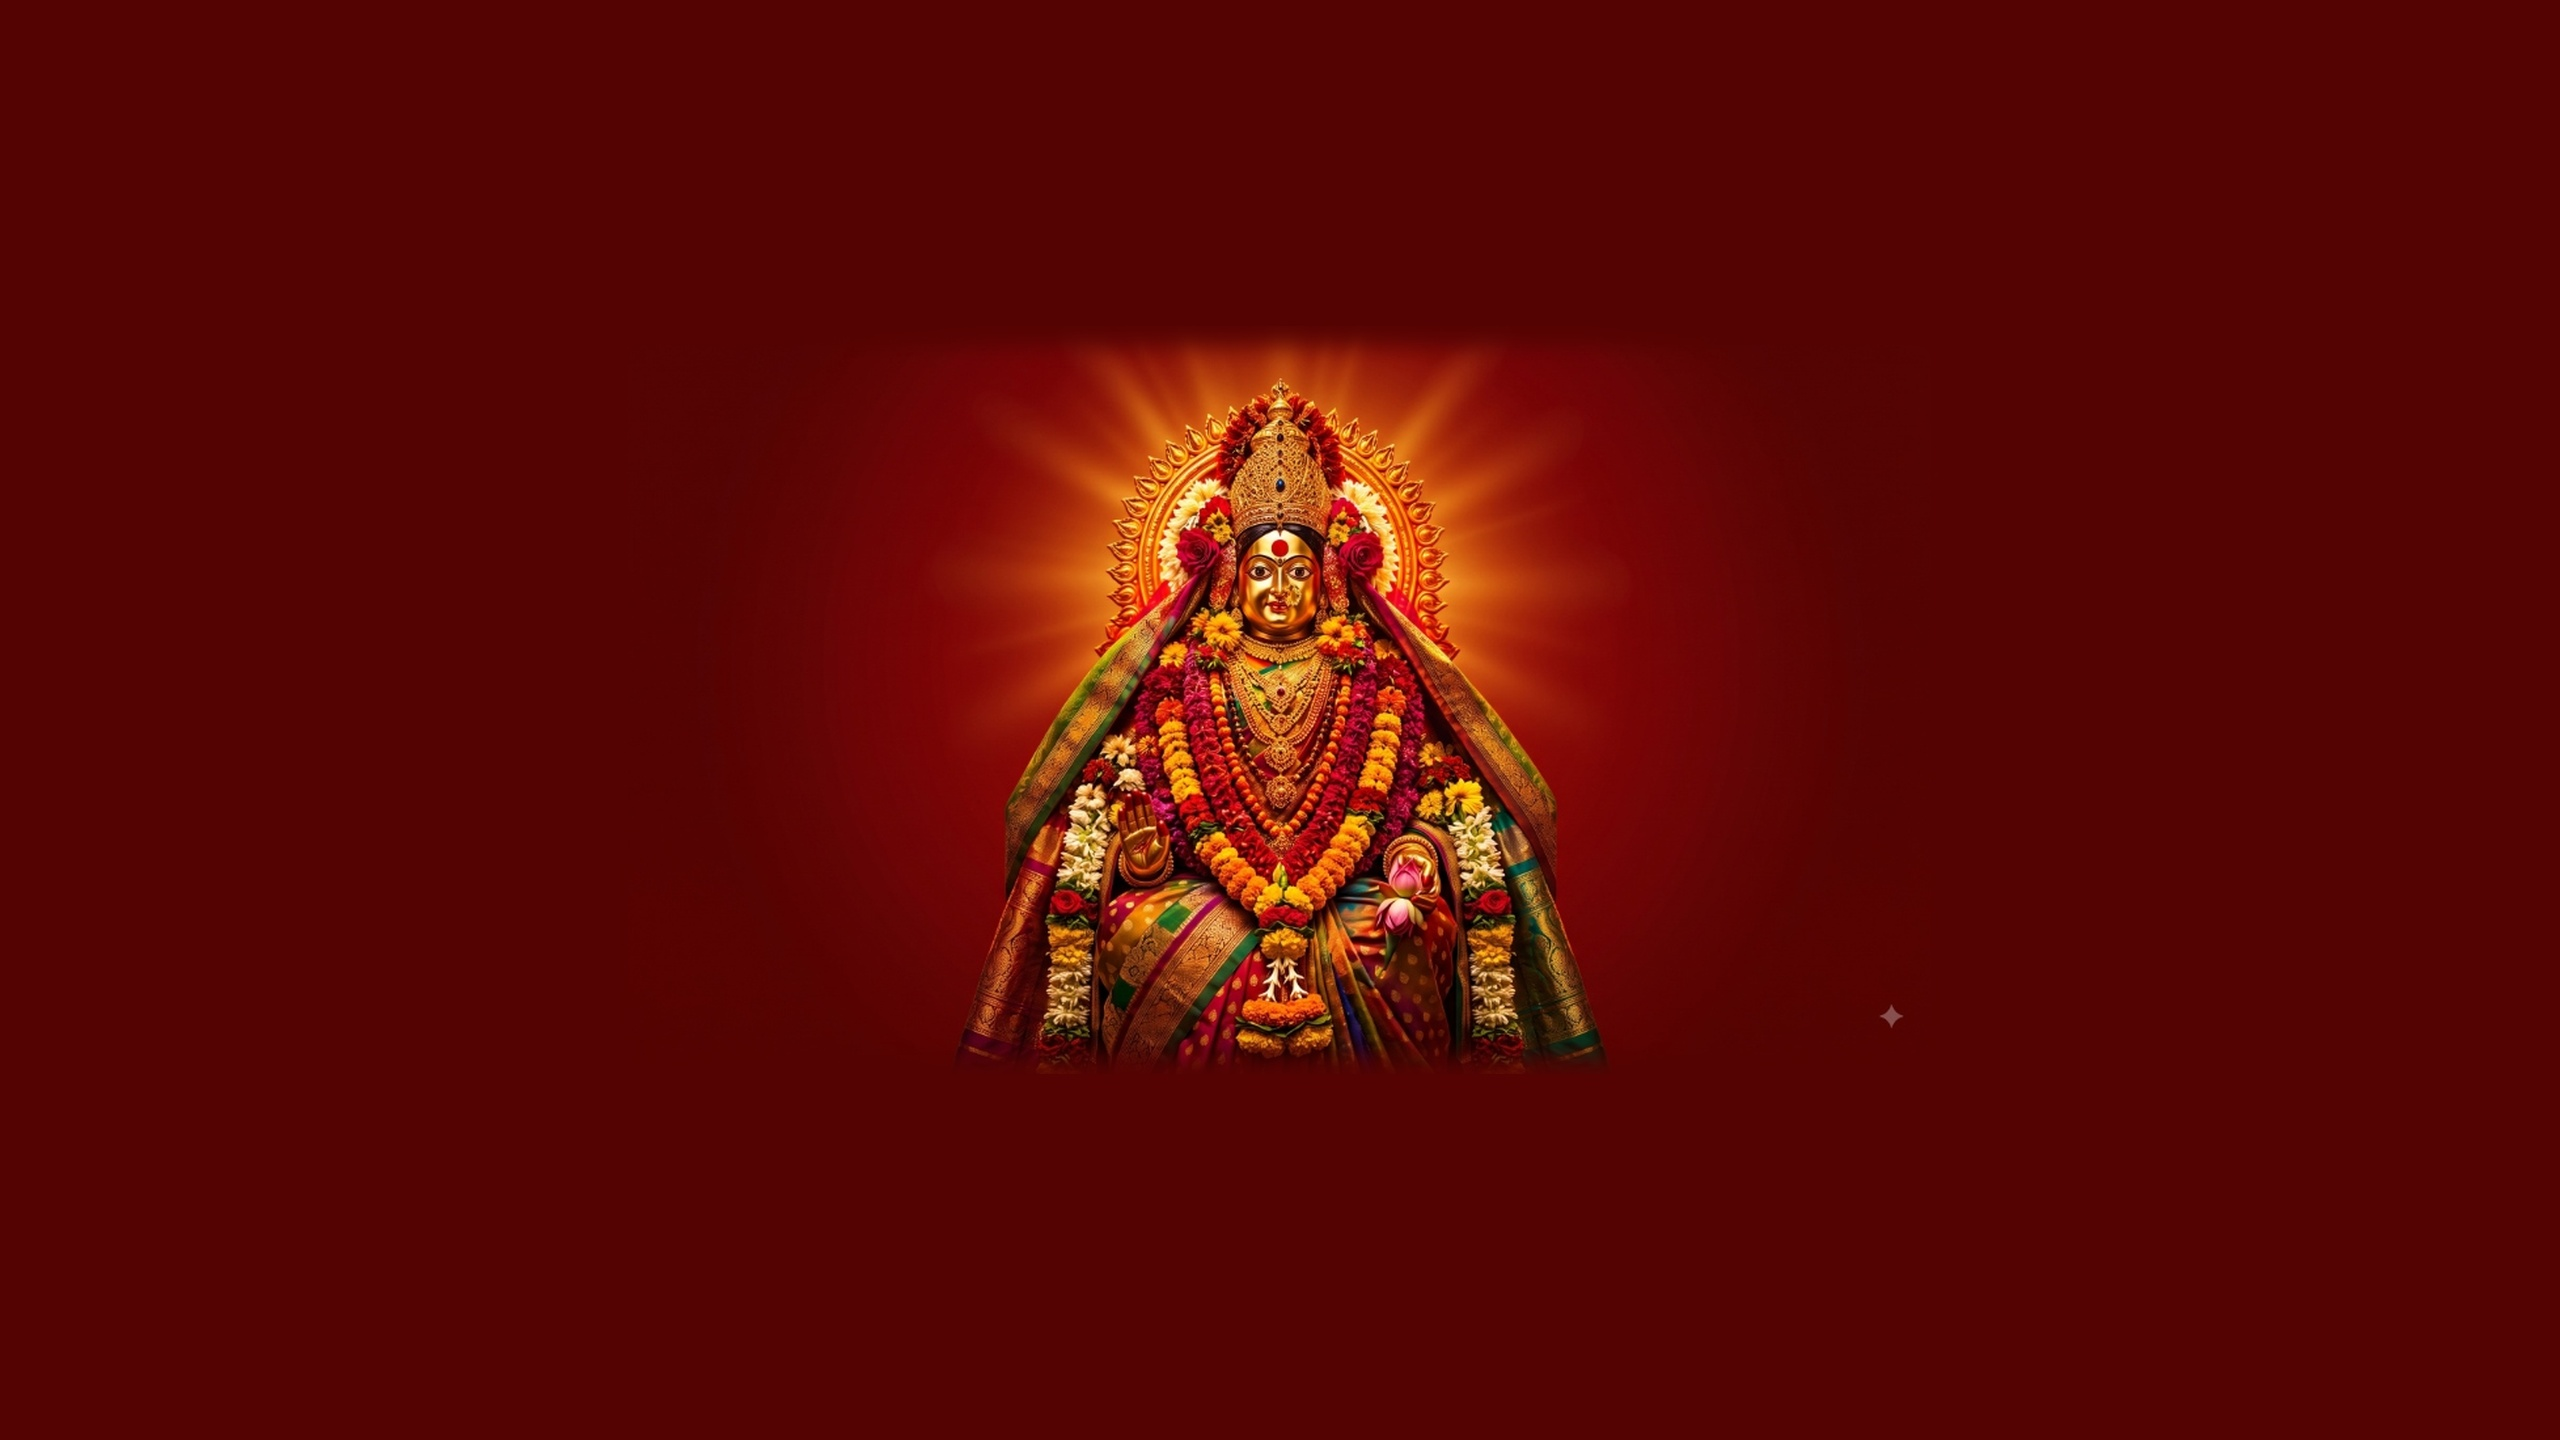
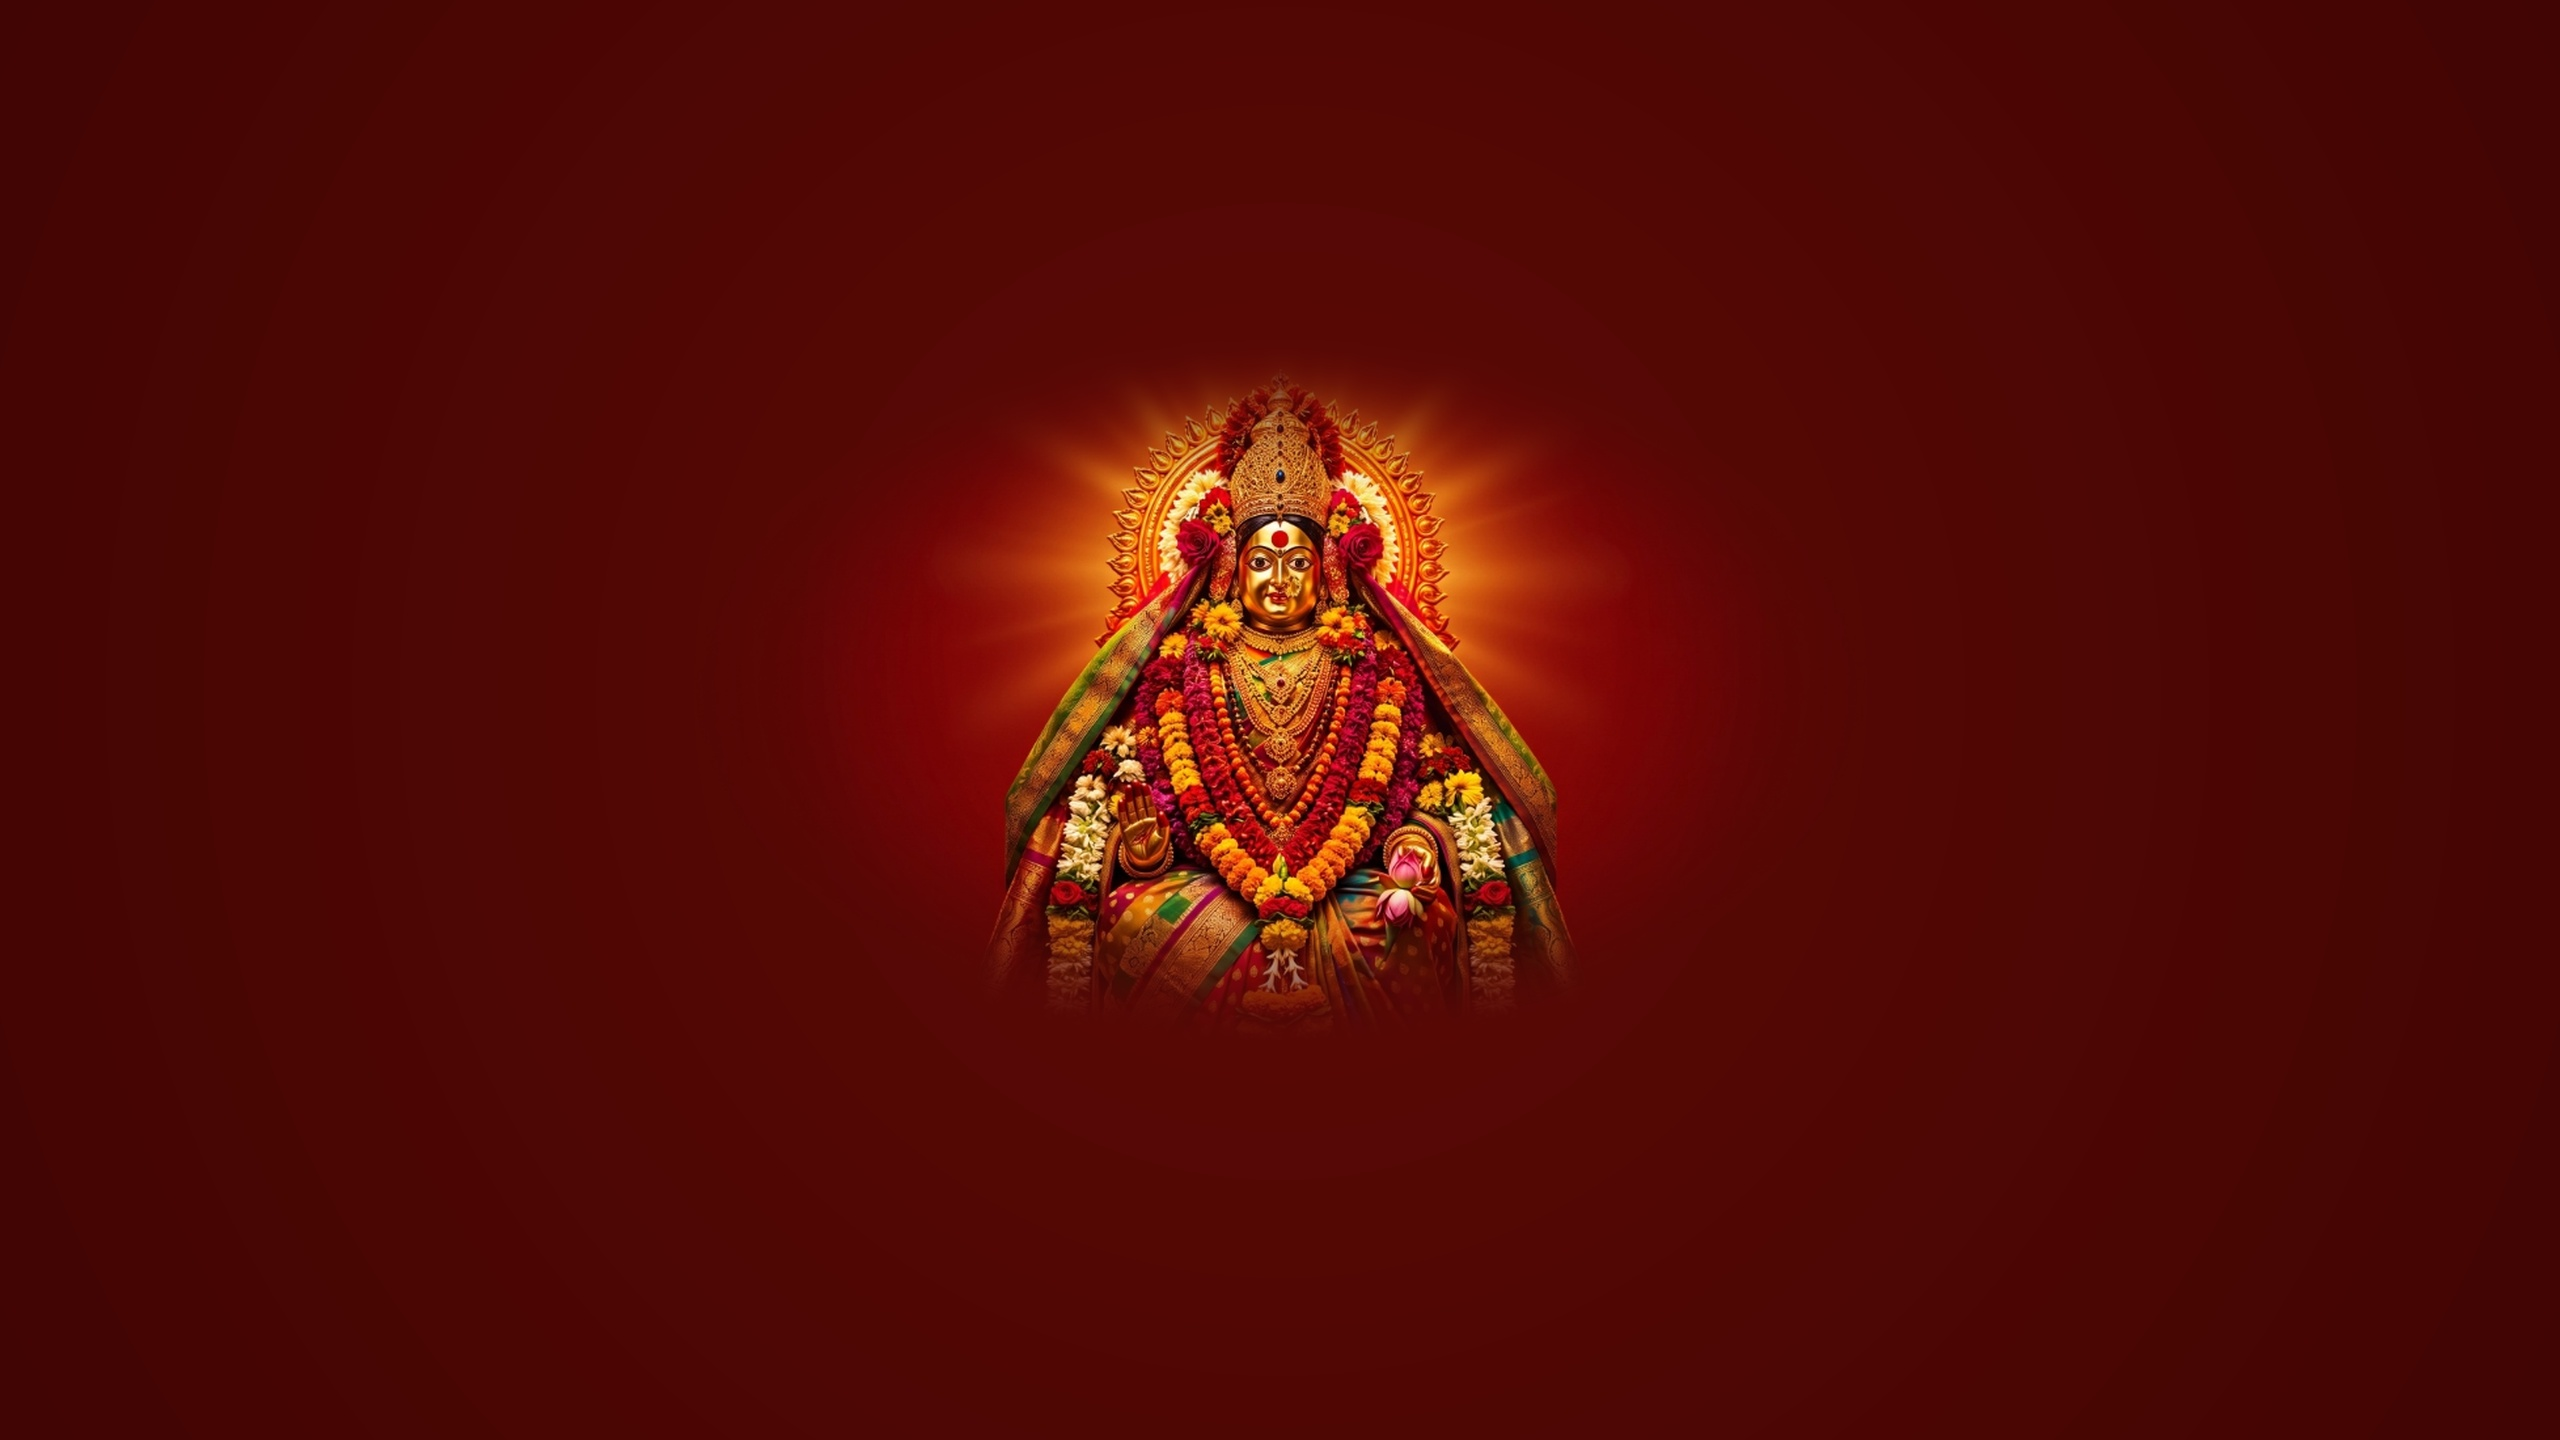
Smooth color match and seamless radial feathering for Kanubai Special background, eliminating box cuts and hard edges

Changed region(s): [[0.375, 0.2188, 0.625, 0.75]]

diff --git a/style.css b/style.css
@@ -102,6 +102,16 @@ body {
     rgba(10, 8, 5, 0.65) 100%
   );
   pointer-events: none;
+  transition: background 0.4s ease;
+}
+
+.bg-wrapper.kanubai-active .bg-vignette {
+  background: radial-gradient(
+    circle at 50% 45%,
+    rgba(0, 0, 0, 0) 45%,
+    rgba(40, 3, 2, 0.2) 75%,
+    rgba(25, 2, 1, 0.6) 100%
+  );
 }
 
 /* --------------------------------------------------------------------------
